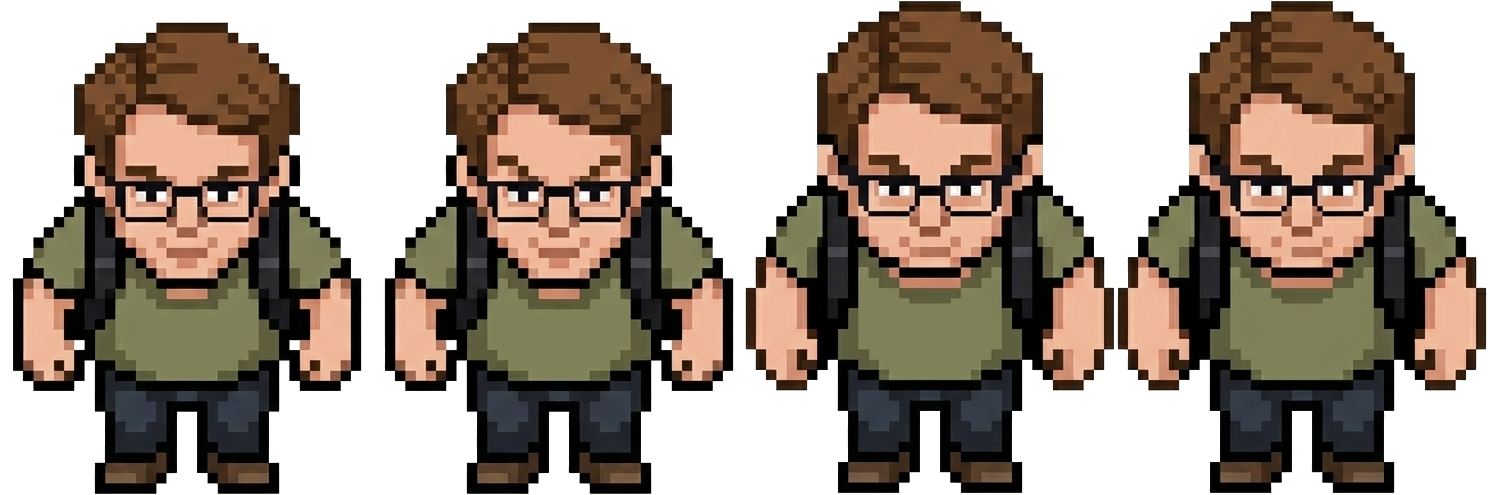
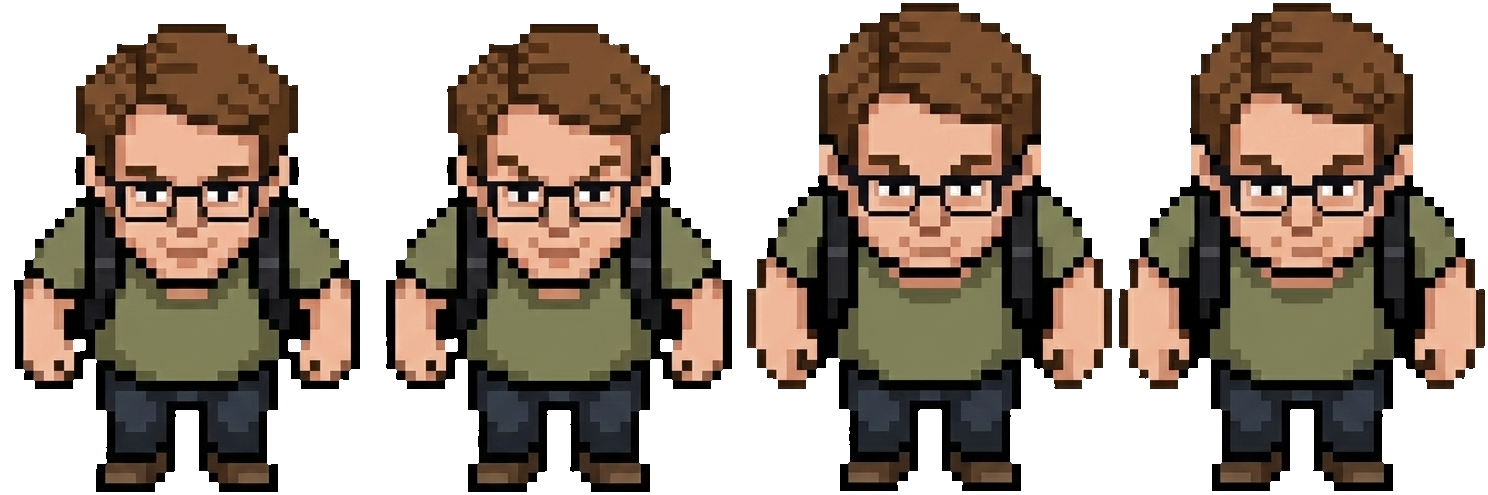
new assets

diff --git a/lib/npcs/tobi.dart b/lib/npcs/tobi.dart
@@ -1,4 +1,6 @@
 // tobi.dart
+import 'dart:ui';
+
 import 'package:flame/collisions.dart';
 import 'package:flame/components.dart';
 import 'package:flame/events.dart';
@@ -49,6 +51,31 @@ class Tobi extends SpriteAnimationGroupComponent with HasGameReference<OfficeGam
   static double frame = 4;
   static double pngHeight = 495;
   static double get frameWidth => pngWidth / frame;
+
+  @override
+  void render(Canvas canvas) {
+    // ==========================================
+    // FAKE SCHATTEN ZEICHNEN
+    // ==========================================
+    final shadowPaint = Paint()
+      ..color = const Color(0x66000000)
+      ..style = PaintingStyle.fill;
+
+    final double shadowWidth = 40;
+    final double shadowHeight = 14;
+
+    final double shadowX = 4;
+
+    // Standard-Höhe für Hoch/Runter
+    double shadowY = 56;
+
+    canvas.drawOval(Rect.fromLTWH(shadowX, shadowY, shadowWidth, shadowHeight), shadowPaint);
+    // ==========================================
+    // ==========================================
+    // ==========================================
+
+    super.render(canvas);
+  }
 
   @override
   Future<void> onLoad() async {

diff --git a/lib/hendrik.dart b/lib/hendrik.dart
@@ -67,7 +67,7 @@ class Hendrik extends SpriteAnimationGroupComponent<Direction>
 
     final animRight = await game.loadSpriteAnimation(
       'right.png',
-      SpriteAnimationData.sequenced(amount: 4, stepTime: 0.15, textureSize: Vector2(286, 512)),
+      SpriteAnimationData.sequenced(amount: 7, stepTime: 0.15, textureSize: Vector2(286, 512)),
     );
 
     animations = {Direction.down: animDown, Direction.up: animUp, Direction.left: animLeft, Direction.right: animRight};